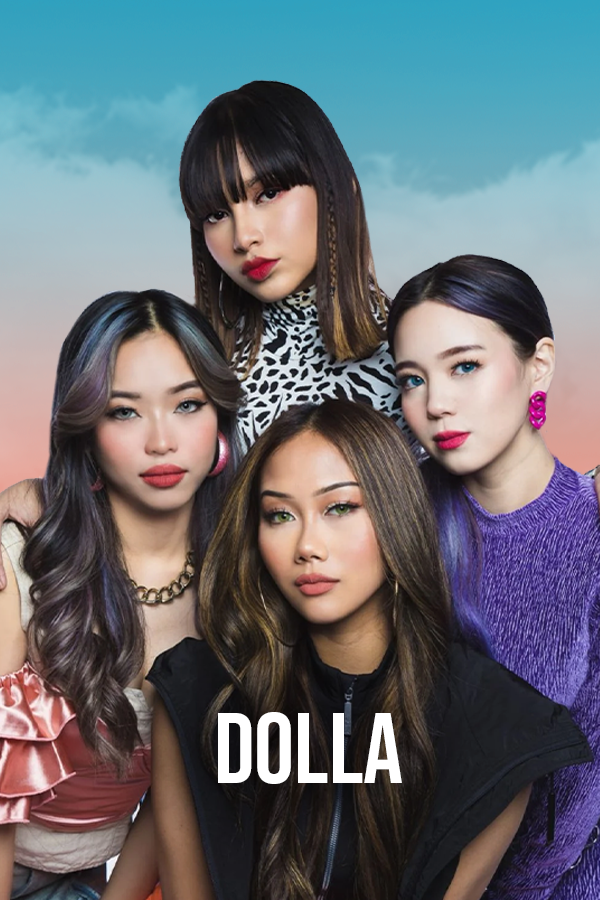
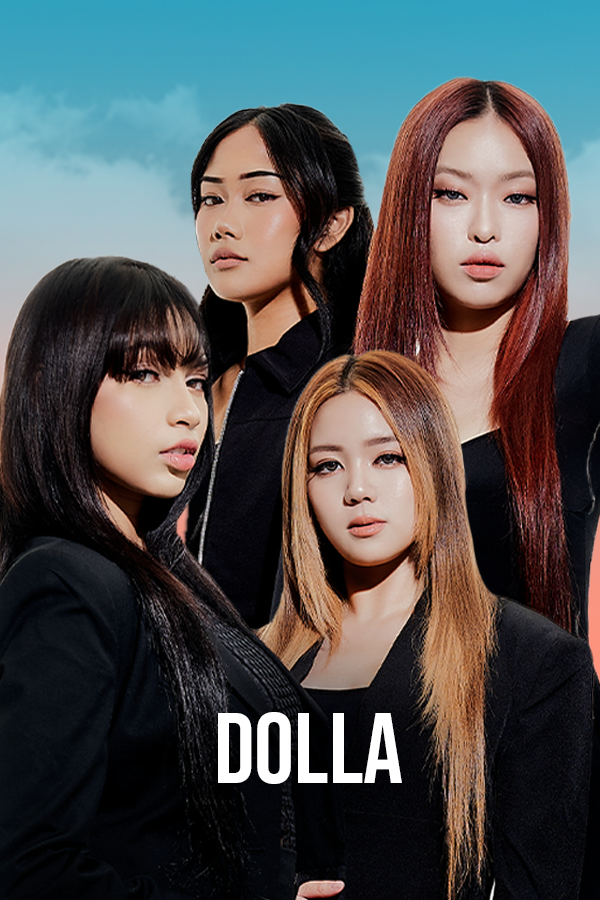
lineup reveal 02/04/24 changing the jeermy image

diff --git a/public/music&artsfestival.html b/public/music&artsfestival.html
@@ -1,4 +1,4 @@
-<!DOCTYPE html><!--  Last Published: Tue Apr 02 2024 11:01:12 GMT+0000 (Coordinated Universal Time)  -->
+<!DOCTYPE html><!--  Last Published: Tue Apr 02 2024 11:30:53 GMT+0000 (Coordinated Universal Time)  -->
 <html data-wf-page="65fc1036d484174479de2dbf" data-wf-site="64d211e93d3d310007a3eb4b">
 <head>
   <meta charset="utf-8">
@@ -321,7 +321,7 @@ j=d.createElement(s),dl=l!='dataLayer'?'&l='+l:'';j.async=true;j.src=
               <div class="slide-content">
                 <h2 class="heading-2 swiper-slide-active"></h2>
               </div>
-              <div class="slide-img-overlay"></div><img loading="lazy" width="300" height="400" alt="" src="images/dolla.png" sizes="(max-width: 767px) 180px, (max-width: 991px) 23vw, (max-width: 1919px) 15vw, 16vw" srcset="images/dolla-p-500.png 500w, images/dolla.png 600w" class="slide-img">
+              <div class="slide-img-overlay"></div><img loading="lazy" width="300" height="400" alt="" src="images/dolla.png" sizes="(max-width: 767px) 180px, (max-width: 991px) 23vw, (max-width: 1919px) 15vw, 16vw" srcset="images/dolla.png 500w, images/dolla.png 600w" class="slide-img">
             </div>
           </div>
           <div class="swiper-slide swiper-slide-active">
@@ -345,7 +345,7 @@ j=d.createElement(s),dl=l!='dataLayer'?'&l='+l:'';j.async=true;j.src=
               <div class="slide-content">
                 <h2 class="heading-2 swiper-slide-active"></h2>
               </div>
-              <div class="slide-img-overlay"></div><img loading="lazy" width="300" height="400" alt="" src="images/jeremy-olander.png" sizes="(max-width: 767px) 180px, (max-width: 991px) 23vw, (max-width: 1919px) 15vw, 16vw" srcset="images/jeremy-olander-p-500.png 500w, images/jeremy-olander.png 600w" class="slide-img">
+              <div class="slide-img-overlay"></div><img loading="lazy" width="300" height="400" alt="" src="images/jeremy-olander.png" sizes="(max-width: 767px) 180px, (max-width: 991px) 23vw, (max-width: 1919px) 15vw, 16vw" srcset="images/jeremy-olander.png 500w, images/jeremy-olander.png 600w" class="slide-img">
             </div>
           </div>
           <div class="swiper-slide swiper-slide-active">

diff --git a/public/countdown.html b/public/countdown.html
@@ -1,4 +1,4 @@
-<!DOCTYPE html><!--  Last Published: Tue Apr 02 2024 11:01:12 GMT+0000 (Coordinated Universal Time)  -->
+<!DOCTYPE html><!--  Last Published: Tue Apr 02 2024 11:30:53 GMT+0000 (Coordinated Universal Time)  -->
 <html data-wf-page="65fc1036d484174479de2e1c" data-wf-site="64d211e93d3d310007a3eb4b">
 <head>
   <meta charset="utf-8">

diff --git a/public/detail_gallery-bar-home.html b/public/detail_gallery-bar-home.html
@@ -1,4 +1,4 @@
-<!DOCTYPE html><!--  Last Published: Tue Apr 02 2024 11:01:12 GMT+0000 (Coordinated Universal Time)  -->
+<!DOCTYPE html><!--  Last Published: Tue Apr 02 2024 11:30:53 GMT+0000 (Coordinated Universal Time)  -->
 <html data-wf-page="65fc1036d484174479de2de4" data-wf-site="64d211e93d3d310007a3eb4b">
 <head>
   <meta charset="utf-8">

diff --git a/public/detail_past-events.html b/public/detail_past-events.html
@@ -1,4 +1,4 @@
-<!DOCTYPE html><!--  Last Published: Tue Apr 02 2024 11:01:12 GMT+0000 (Coordinated Universal Time)  -->
+<!DOCTYPE html><!--  Last Published: Tue Apr 02 2024 11:30:53 GMT+0000 (Coordinated Universal Time)  -->
 <html data-wf-page="65fc1036d484174479de2e03" data-wf-site="64d211e93d3d310007a3eb4b">
 <head>
   <meta charset="utf-8">

diff --git a/public/detail_whats-new.html b/public/detail_whats-new.html
@@ -1,4 +1,4 @@
-<!DOCTYPE html><!--  Last Published: Tue Apr 02 2024 11:01:12 GMT+0000 (Coordinated Universal Time)  -->
+<!DOCTYPE html><!--  Last Published: Tue Apr 02 2024 11:30:53 GMT+0000 (Coordinated Universal Time)  -->
 <html data-wf-page="65fc1036d484174479de2e04" data-wf-site="64d211e93d3d310007a3eb4b">
 <head>
   <meta charset="utf-8">

diff --git a/public/faq.html b/public/faq.html
@@ -1,4 +1,4 @@
-<!DOCTYPE html><!--  Last Published: Tue Apr 02 2024 11:01:12 GMT+0000 (Coordinated Universal Time)  -->
+<!DOCTYPE html><!--  Last Published: Tue Apr 02 2024 11:30:53 GMT+0000 (Coordinated Universal Time)  -->
 <html data-wf-page="65fc1036d484174479de2e1a" data-wf-site="64d211e93d3d310007a3eb4b">
 <head>
   <meta charset="utf-8">

diff --git a/public/home---pfc-2023.html b/public/home---pfc-2023.html
@@ -1,4 +1,4 @@
-<!DOCTYPE html><!--  Last Published: Tue Apr 02 2024 11:01:12 GMT+0000 (Coordinated Universal Time)  -->
+<!DOCTYPE html><!--  Last Published: Tue Apr 02 2024 11:30:53 GMT+0000 (Coordinated Universal Time)  -->
 <html data-wf-page="65fc1036d484174479de2e1b" data-wf-site="64d211e93d3d310007a3eb4b">
 <head>
   <meta charset="utf-8">

diff --git a/public/terms-condition.html b/public/terms-condition.html
@@ -1,4 +1,4 @@
-<!DOCTYPE html><!--  Last Published: Tue Apr 02 2024 11:01:12 GMT+0000 (Coordinated Universal Time)  -->
+<!DOCTYPE html><!--  Last Published: Tue Apr 02 2024 11:30:53 GMT+0000 (Coordinated Universal Time)  -->
 <html data-wf-page="65fc1036d484174479de2e22" data-wf-site="64d211e93d3d310007a3eb4b">
 <head>
   <meta charset="utf-8">
